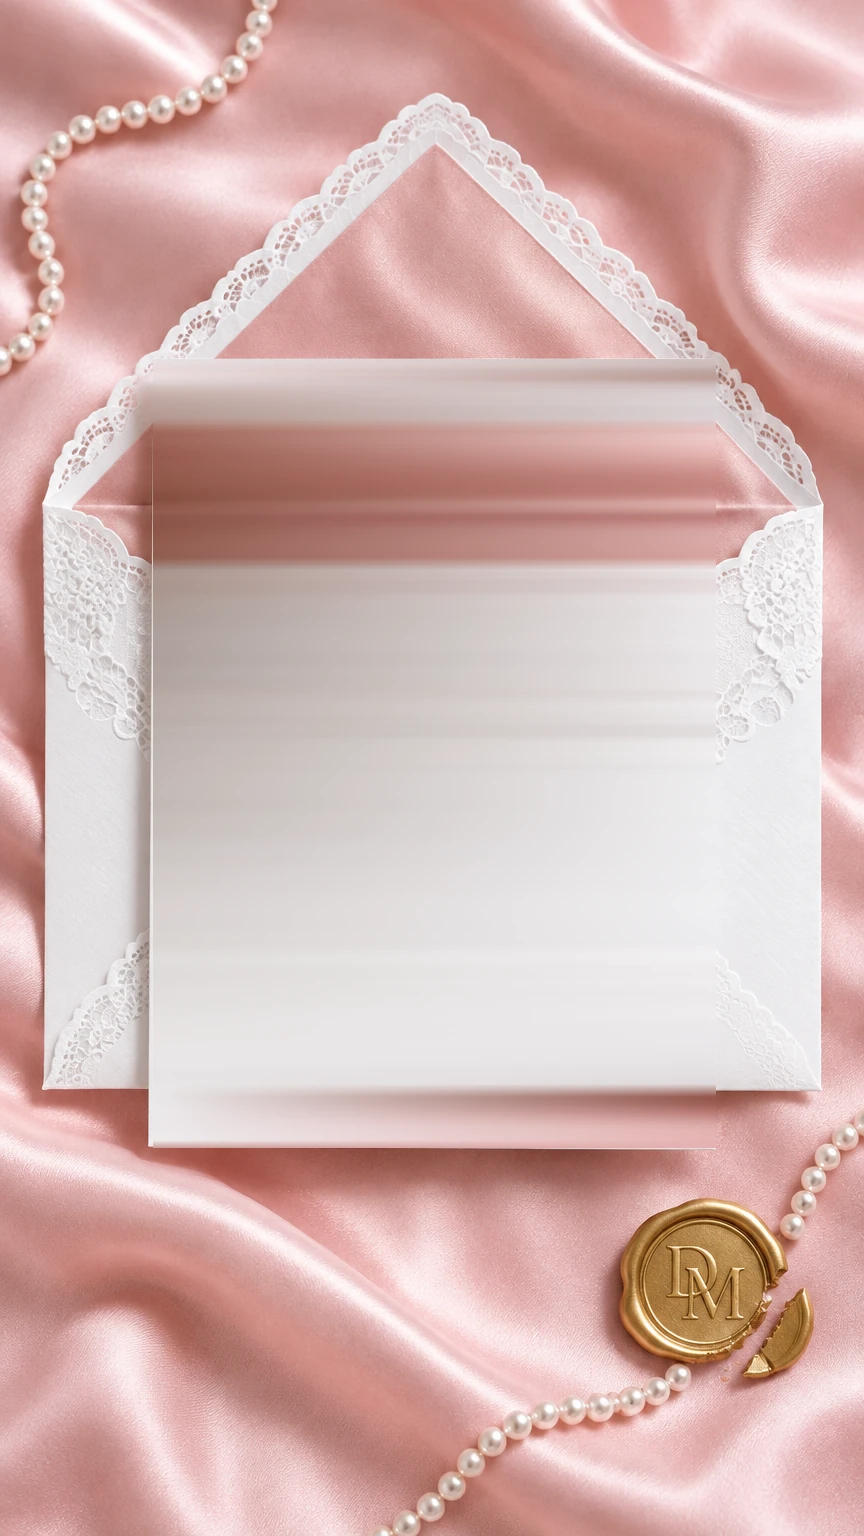
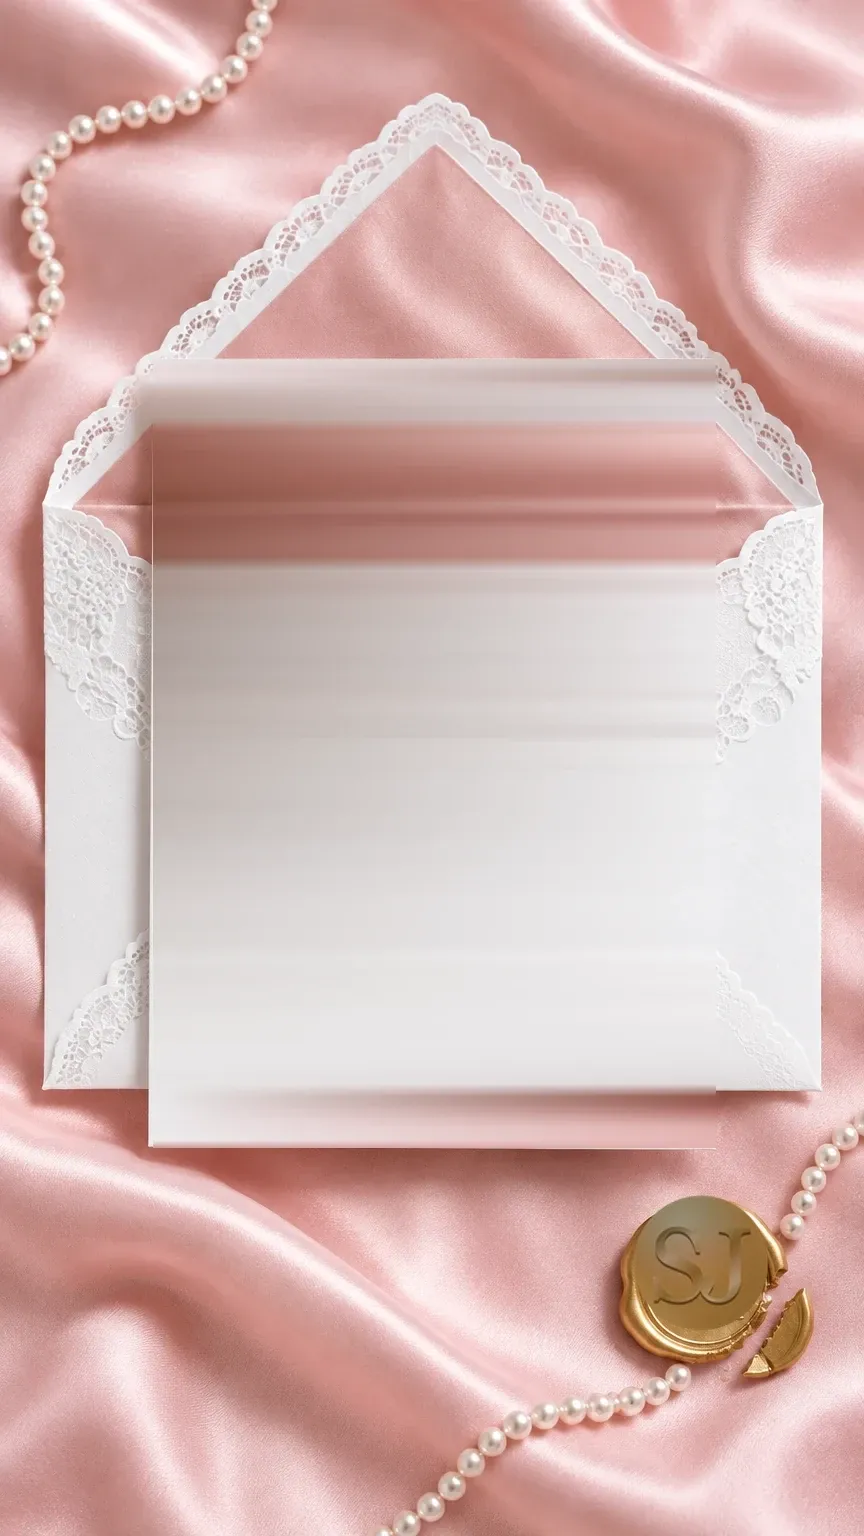
fix: SJ monogram on the 3D opening seal

Changed region(s): [[0.7188, 0.7812, 0.9062, 0.875]]

diff --git a/src/styles/scenes.css b/src/styles/scenes.css
@@ -438,30 +438,6 @@
 .scene-entrance__music .pill__bars i:nth-child(3) { height: 8.8px; }
 .scene-entrance__music .pill__bars i:nth-child(4) { height: 11.2px; }
 
-/* New SJ monogram plate over the baked envelope seal (monogram only). */
-.env-monogram {
-  position: absolute;
-  z-index: 3;
-  left: 50%;
-  top: 52.67%;
-  width: 12.5%;
-  aspect-ratio: 1;
-  transform: translate(-50%, -50%);
-  pointer-events: none;
-}
-.env-monogram img {
-  display: block;
-  width: 100%;
-  height: 100%;
-  object-fit: contain;
-}
-@media (min-width: 768px) and (max-width: 1023px) {
-  .env-monogram { top: 45.83%; width: 11.5%; }
-}
-@media (min-width: 1024px) {
-  .env-monogram { top: 55.78%; width: 6%; }
-}
-
 .scene-entrance__date {
   position: absolute;
   z-index: 2;
